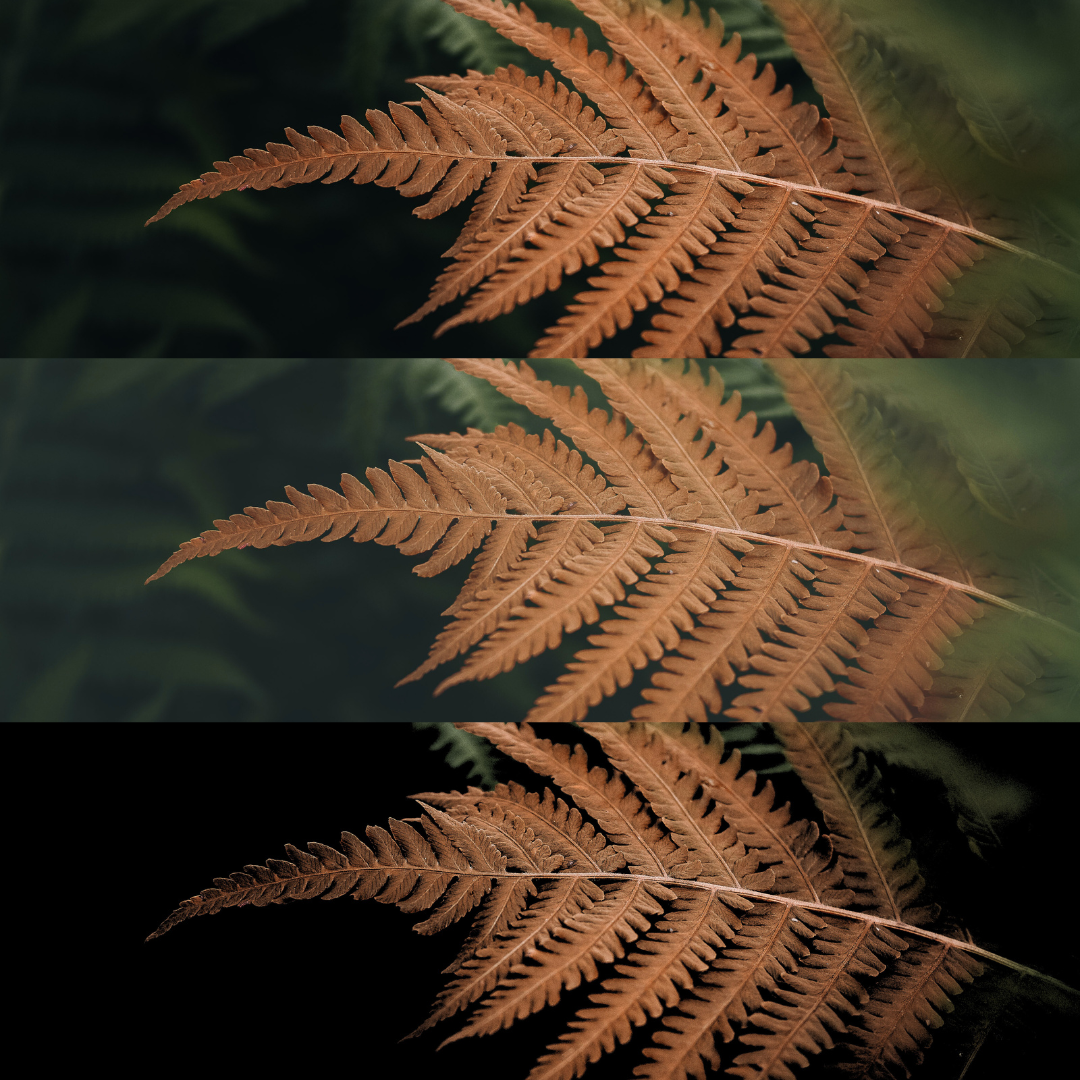
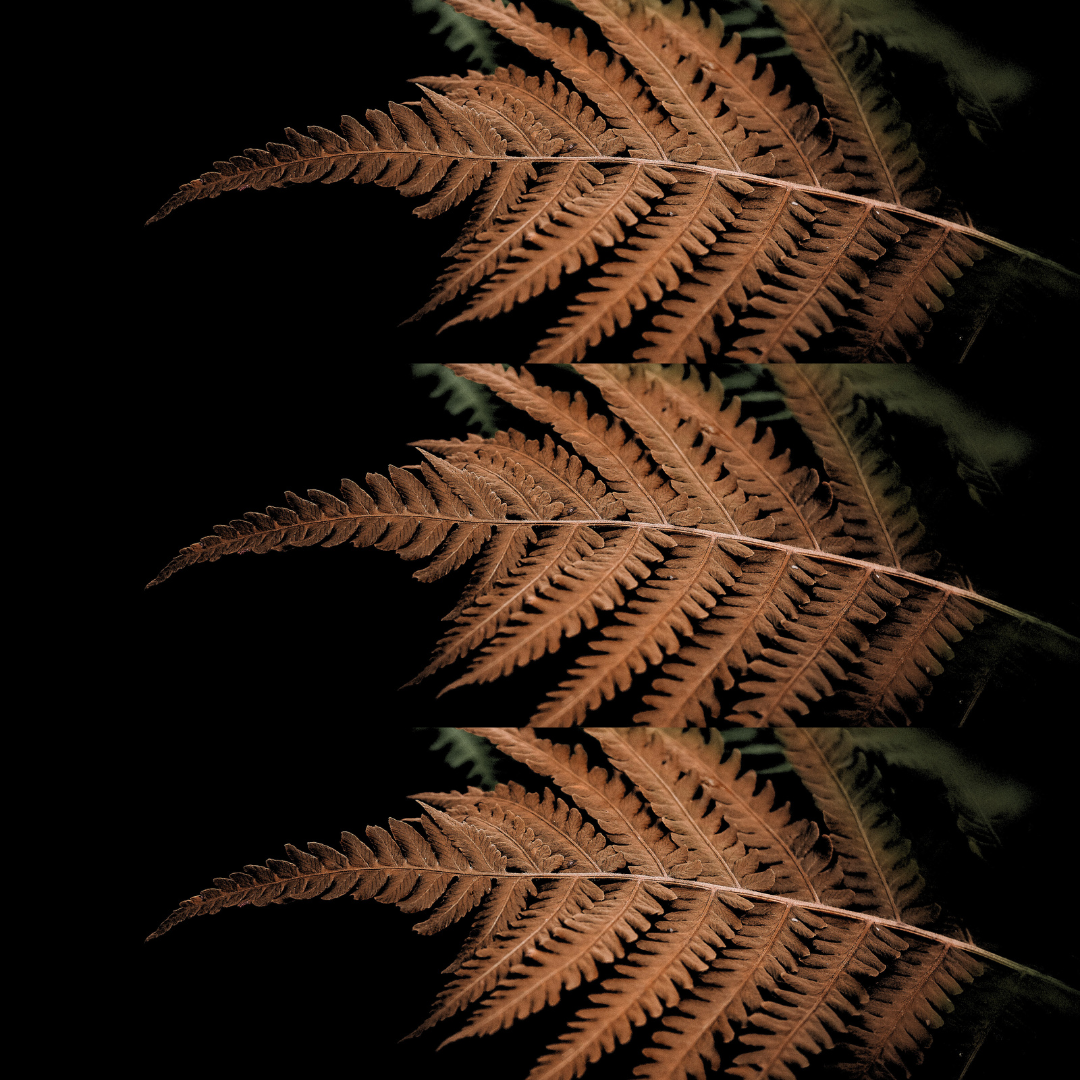
fix overlay resize contact section add light/dark mode css animation

diff --git a/src/components/Main.jsx b/src/components/Main.jsx
@@ -1,4 +1,4 @@
-import React from 'react';
+import React, { useState, useEffect } from 'react';
 import turing from '../assets/turing.png';
 import photo from '../assets/photo.png';
 import background from '../assets/background1.png';
@@ -6,40 +6,46 @@ import Link from 'next/link';
 import Image from 'next/image';
 import { FaLinkedinIn, FaGithub } from 'react-icons/fa';
 import { BsFillPersonLinesFill } from 'react-icons/bs';
-// import { useTheme } from 'next-themes';
+import { useTheme } from 'next-themes';
 import { HiOutlineSun, HiMoon } from 'react-icons/hi';
 
 const Main = () => {
-  // const { systemTheme, theme, setTheme } = useTheme();
+  const [mounted, setMounted] = useState(false);
+  const { systemTheme, theme, setTheme } = useTheme();
 
-  // const renderThemeChanger = () => {
-  //   const currentTheme = theme === 'system' ? systemTheme : theme;
+  useEffect(() => {
+    setMounted(true);
+  }, []);
 
-  //   if (currentTheme === 'dark') {
-  //     return (
-  //       <div className="rounded-full shadow-lg shadow-gray-600 p-6 cursor-pointer hover:scale-110 ease-in duration-300">
-  //         <HiOutlineSun />
-  //       </div>
-  //     );
-  //   } else {
-  //     <div className="rounded-full shadow-lg shadow-gray-600 p-6 cursor-pointer hover:scale-110 ease-in duration-300">
-  //       <HiMoon />
-  //     </div>;
-  //   }
-  // };
+  const renderThemeChanger = () => {
+    if (!mounted) return null;
+
+    const currentTheme = theme === 'system' ? systemTheme : theme;
+
+    return (
+      <div
+        onClick={() => {
+          setTheme(currentTheme === 'dark' ? 'light' : 'dark');
+        }}
+        className="rounded-full shadow-lg shadow-gray-600 p-6 cursor-pointer hover:scale-110 ease-in duration-300"
+      >
+        {currentTheme === 'dark' ? <HiOutlineSun /> : <HiMoon />}
+      </div>
+    );
+  };
 
   return (
     <div id="home" className="w-full h-screen text-center">
       <div className="max-w-[1240px] w-full h-full mx-auto p-2 flex justify-center items-center">
         <div>
-          <p className="uppercase text-sm tracking-widest text-gray-750">{`LET'S BUILD SOMETHING TOGETHER`}</p>
+          <p className="uppercase text-sm tracking-widest text-gray-750 animate-moveInRight">{`LET'S BUILD SOMETHING TOGETHER`}</p>
           <h1 className="py-4 text-gray-700">
             Hi, I&#39;m <span className="text-[#272A21]"> Ali</span>
           </h1>
           <h1 className="py-2 text-10xl font-bold bg-gradient-to-r from-[#491c13] via-[#FBF8F6] to-[#0F1612] text-transparent bg-clip-text">
             A Front-End Web Developer
           </h1>
-          <p className="py-4 text-gray-800 max-w-[70%] m-auto">
+          <p className="py-4 text-gray-800 max-w-[70%] m-auto dark:text-slate-300">
             I&#39;m a front-end web developer who enjoys building and designing
             exceptional digital experiences. Currently, I&#39;m focused on
             building responsive front-end web applications while learning AWS,
@@ -79,27 +85,28 @@ const Main = () => {
                 <BsFillPersonLinesFill />
               </div>
             </Link>
-            <div className="rounded-full shadow-lg shadow-gray-600 p-6 cursor-pointer hover:scale-110 ease-in duration-300">
-              <HiMoon />
-            </div>
+            <div>{renderThemeChanger()}</div>
           </div>
         </div>
         <div className="relative">
           <div
-            className="mt-10 ml-20 absolute z-10 flex items-center justify-center"
+            className="absolute inset-0 flex items-center justify-center"
             style={{
               borderRadius: '50%',
               overflow: 'hidden',
+              width: '70%',
+              height: '70%',
+              margin: '15%',
             }}
           >
-            <Image src={photo} alt="photo of Ali" width="1300" height="1300" />
+            <Image src={photo} alt="photo of Ali" width="650" height="650" />
           </div>
           <Image
             className="z-0 rounded-xl opacity-2"
             src={background}
             alt="photo of trees/plants"
-            width="1300"
-            height="1300"
+            width="1500"
+            height="1500"
           />
         </div>
       </div>

diff --git a/src/components/About.jsx b/src/components/About.jsx
@@ -7,12 +7,12 @@ const About = () => {
     <div id="about" className="w-full md:h-screen p-2 flex items-center py-16">
       <div className="max-w-[1240px] m-auto md:grid grid-cols-3 gap-8">
         <div className="col-span-2">
-          <p className="uppercase text-xl tracking-widest text-[#272A21]">
+          <p className="uppercase text-xl tracking-widest text-[#272A21] dark:text-slate-300">
             About
           </p>
           <h2 className="py-4">Who I am</h2>
-          <p className="py-2 text-gray-800">{`// I ultimately want to work in either med tech or green tech`}</p>
-          <p className="py-2 text-gray-800">
+          <p className="py-2 text-gray-800 dark:text-slate-300">{`// I ultimately want to work in either med tech or green tech`}</p>
+          <p className="py-2 text-gray-800 dark:text-slate-300">
             I recently graduated from the Front End Engineering program at the
             Turing School of Software & Design. While at Turing, I learned about
             agile workflow and methodologies, Object Oriented Programming using
@@ -28,12 +28,12 @@ const About = () => {
             I have deepened my understanding of React Hooks, and unit testing,
             Python, and SQL. I recently earned a certificate in AWS!
           </p>
-          <p className="py-2 text-gray-800">
+          <p className="py-2 text-gray-800 dark:text-slate-300">
             The difference between a successful person and others is not a lack
             of strength, not a lack of knowledge, but rather a lack in will. -
             Vince Lombardi Jr.
           </p>
-          <p className="py-2 text-gray-800">
+          <p className="py-2 text-gray-800 dark:text-slate-300">
             Failure will never overtake me if my determination to succeed is
             strong enough. - Og Mandino.
           </p>

diff --git a/src/components/Contact.jsx b/src/components/Contact.jsx
@@ -11,12 +11,12 @@ const Contact = () => {
   return (
     <div id="contact" className="w-full lg:h-screen">
       <div className="max-w-[1240px] m-auto px-2 py-16 w-full">
-        <p className="text-xl tracking-widest uppercase text-[#272A21]">
+        <p className="text-xl tracking-widest uppercase text-[#272A21] dark:text-slate-300">
           Contact
         </p>
         <h2 className="py-4">Get In Touch</h2>
         <div className="grid lg:grid-cols-5 gap-8">
-          <div className="col-span-3 lg:col-span-2 w-full h-full shadow-xl shadow-gray-600 rounded-xl p-4">
+          <div className="col-span-3 lg:col-span-4 w-full h-full shadow-xl shadow-gray-600 rounded-xl p-4">
             <div className="lg:p-4 h-full ">
               <div>
                 <Image
@@ -27,8 +27,8 @@ const Contact = () => {
               </div>
               <div>
                 <h2 className="py-2">Ali Nix</h2>
-                <p>Front-End Developer</p>
-                <p className="py-4">
+                <p className="uppercase">Front-End Developer</p>
+                <p className="py-4 block text-2xl font-bold tracking-widest">
                   I am available for entry-level full-time positions. Contact me
                   and let&apos;s talk.
                 </p>

diff --git a/src/pages/_app.js b/src/pages/_app.js
@@ -1,13 +1,28 @@
+import { ThemeProvider } from 'next-themes';
 import '../styles/globals.css';
 import Navbar from '../components/Navbar';
 
-function myApp({ Component, pageProps }) {
+function MyApp({ Component, pageProps }) {
   return (
-    <>
+    <ThemeProvider enableSystem={true} attribute="class">
       <Navbar />
       <Component {...pageProps} />
-    </>
+    </ThemeProvider>
   );
 }
 
-export default myApp;
+export default MyApp;
+
+// import '../styles/globals.css';
+// import Navbar from '../components/Navbar';
+
+// function myApp({ Component, pageProps }) {
+//   return (
+//     <>
+//       <Navbar />
+//       <Component {...pageProps} />
+//     </>
+//   );
+// }
+
+// export default myApp;

diff --git a/src/styles/globals.css b/src/styles/globals.css
@@ -11,7 +11,7 @@ html {
 
 @layer base {
   body {
-    @apply bg-[#A96D47] text-[#1f2937] tracking-wide;
+    @apply bg-[#A96D47] text-[#1f2937] tracking-wide dark:bg-gray-900 dark:text-slate-300;
   }
 
   h1,
@@ -38,4 +38,26 @@ html {
   button {
     @apply shadow-xl shadow-gray-400 rounded-xl uppercase bg-gradient-to-r from-[#272A21] to-[#A7AF99] text-white;
   }
+}
+
+@keyframes moveInRight {
+  0% {
+    opacity: 0;
+    transform: translateX(100px);
+  }
+
+  80% {
+    transform: translateX(-10px);
+  }
+
+  100% {
+    opacity: 1;
+    transform: translate(0);
+  }
+}
+
+.animate-moveInRight {
+  animation-name: moveInRight;
+  animation-duration: 1.5s;
+  animation-timing-function: ease-out;
 }

diff --git a/src/pages/resume.jsx b/src/pages/resume.jsx
@@ -17,8 +17,8 @@ const resume = () => {
       <div className="max-w[940px] mx-auto p-2 pt-[120px]">
         <h2 className="text-center">Resume</h2>
         <div className="bg-[#d0d4d6] my-4 p-4 w-full flex justify-between items-center">
-          <h2 className="text-center">Ali Nix</h2>
-          <div className="flex">
+          <h2 className="text-center dark:text-slate-950">Ali Nix</h2>
+          <div className="flex dark:text-slate-950">
             <a
               href="https://www.linkedin.com/in/ali-nix-38b9b9126/"
               target="_blank"

diff --git a/src/pages/index.js b/src/pages/index.js
@@ -4,11 +4,10 @@ import About from '../components/About';
 import Skills from '../components/Skills';
 import Projects from '../components/Projects';
 import Contact from '../components/Contact';
-import { ThemeProvider } from 'next-themes';
 
 export default function Home() {
   return (
-    <ThemeProvider>
+    <>
       <Head>
         <title>Ali | Front-End Developer</title>
         <meta
@@ -22,6 +21,6 @@ export default function Home() {
       <Skills />
       <Projects />
       <Contact />
-    </ThemeProvider>
+    </>
   );
 }

diff --git a/src/components/Skills.jsx b/src/components/Skills.jsx
@@ -18,7 +18,7 @@ const Skills = () => {
   return (
     <div id="skills" className="w-full lg:h-screen p-2">
       <div className="max-w-[1240px] mx-auto flex flex-col justify-center h-full">
-        <p className="text-xl tracking-widest uppercase text-[#272A21]">
+        <p className="text-xl tracking-widest uppercase text-[#272A21] dark:text-slate-300">
           Skills
         </p>
         <h2 className="py-4">What I Can Do</h2>

diff --git a/src/components/Projects.jsx b/src/components/Projects.jsx
@@ -9,7 +9,7 @@ const Projects = () => {
   return (
     <div id="projects" className="w-full">
       <div className="max-w-[1240px] mx-auto px-2 py-16">
-        <p className="text-xl tracking-widest uppercase text-[#272A21]">
+        <p className="text-xl tracking-widest uppercase text-[#272A21] dark:text-slate-300">
           Projects
         </p>
         <h2 className="py-4">{`What I've Built`}</h2>

diff --git a/tailwind.config.js b/tailwind.config.js
@@ -6,6 +6,7 @@ module.exports = {
     './components/**/*.{js,ts,jsx,tsx}',
     './src/**/*.{js,ts,jsx,tsx}',
   ],
+  darkMode: 'class',
   theme: {
     extend: {},
   },
